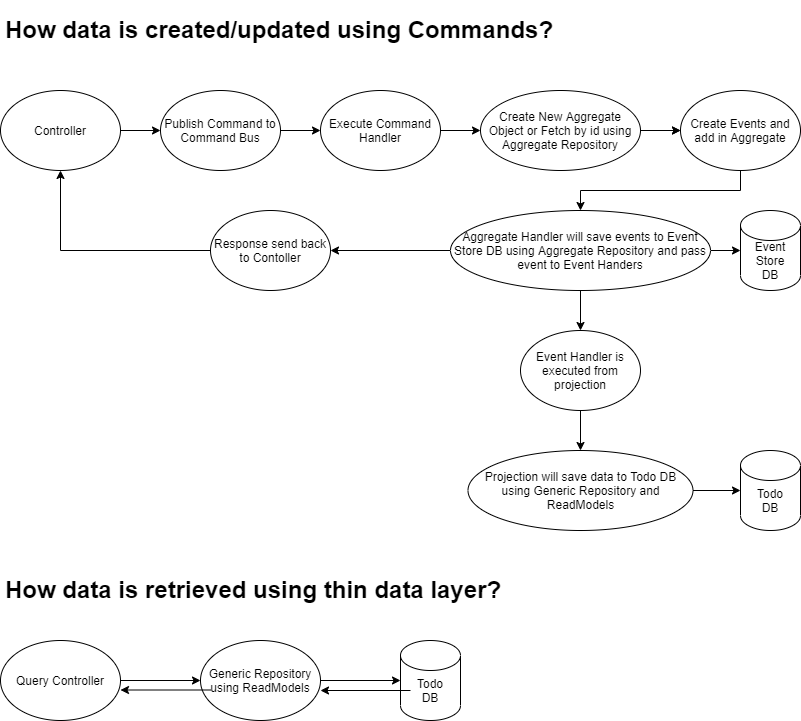
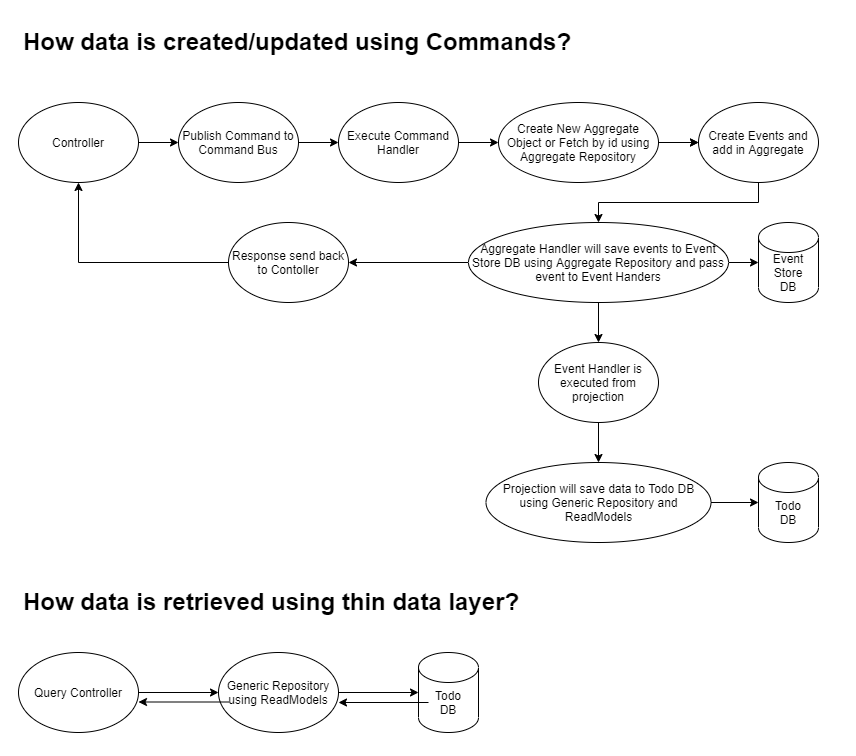
update readme file

diff --git a/README.md b/README.md
@@ -12,3 +12,5 @@ Where segregation means separation.
 - Projections (Event handlers)
 - ReadModels
 - Query Controllers
+
+![CQRS](https://raw.githubusercontent.com/NilavPatel/Todo.CQRS/main/assets/CQRS.png)
